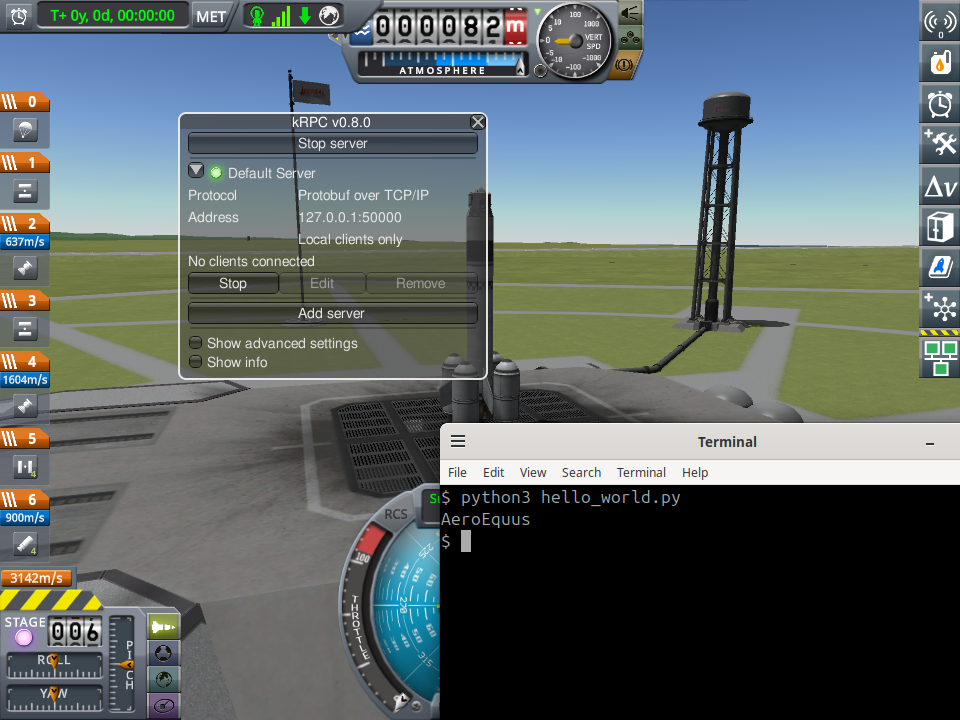
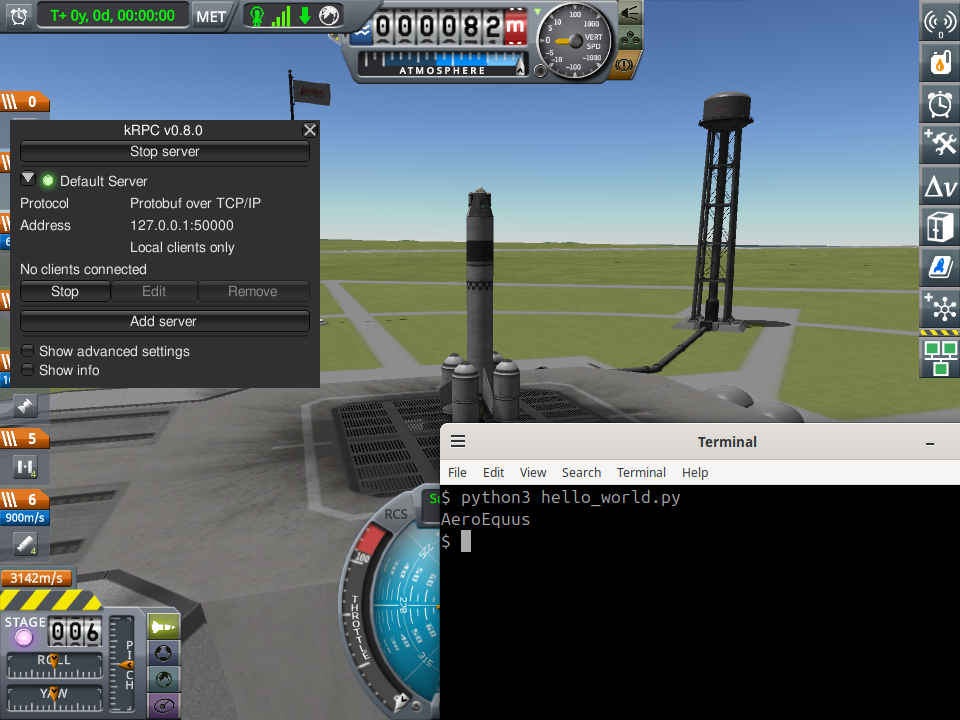
Give the kRPC windows an opaque background
The skin's translucent window background lets the scene show through
the text. Every kRPC window, the server, info and problems windows and
the auto-pilot's info window, now shares an opaque grey background, set
once in the Window base class, close to the stock Alarm Clock and
delta-v panels. Retake the screenshots of the server window.

diff --git a/server/src/UI/Skin.cs b/server/src/UI/Skin.cs
@@ -7,12 +7,27 @@ namespace KRPC.UI
     public static class Skin
     {
         static GUISkin defaultSkin;
+        static Texture2D windowBackground;
 
         public static GUISkin DefaultSkin {
             get {
                 if (defaultSkin == null)
                     defaultSkin = GUI.skin;
                 return defaultSkin;
+            }
+        }
+
+        /// <summary>
+        /// An opaque background for the windows, in place of the skin's translucent one.
+        /// </summary>
+        public static Texture2D WindowBackground {
+            get {
+                if (windowBackground == null) {
+                    windowBackground = new Texture2D (1, 1);
+                    windowBackground.SetPixel (0, 0, new Color (0.19f, 0.19f, 0.2f, 1f));
+                    windowBackground.Apply ();
+                }
+                return windowBackground;
             }
         }
     }

diff --git a/server/src/UI/ProblemsWindow.cs b/server/src/UI/ProblemsWindow.cs
@@ -27,12 +27,6 @@ namespace KRPC.UI
             Title = "kRPC Problems";
             config = ConfigurationFile.Instance;
             Style.fixedWidth = windowWidth;
-            // The skin's window background is translucent, which makes a long list hard to read
-            var background = new Texture2D (1, 1);
-            background.SetPixel (0, 0, new Color (0.12f, 0.13f, 0.14f, 1f));
-            background.Apply ();
-            Style.normal.background = background;
-            Style.onNormal.background = background;
             Position = new Rect ((Screen.width - windowWidth) / 2, Screen.height / 4, windowWidth, 0f);
 
             var skin = Skin.DefaultSkin;

diff --git a/server/src/UI/Window.cs b/server/src/UI/Window.cs
@@ -69,6 +69,8 @@ namespace KRPC.UI
             if (!hasInit) {
                 var skin = Skin.DefaultSkin;
                 Style = new GUIStyle (skin.window);
+                Style.normal.background = Skin.WindowBackground;
+                Style.onNormal.background = Skin.WindowBackground;
                 Init ();
                 closeButtonStyle = new GUIStyle (skin.button);
                 closeButtonStyle.margin = new RectOffset (0, 0, 0, 0);

diff --git a/changelog.d/server-settings.md b/changelog.d/server-settings.md
@@ -9,3 +9,4 @@
 - Keep each readable setting from a damaged `settings.cfg`, and back up a file with no readable
   settings as `settings.cfg.bak`
 - Widen the server window so the advanced settings fit
+- Give the kRPC windows an opaque background
